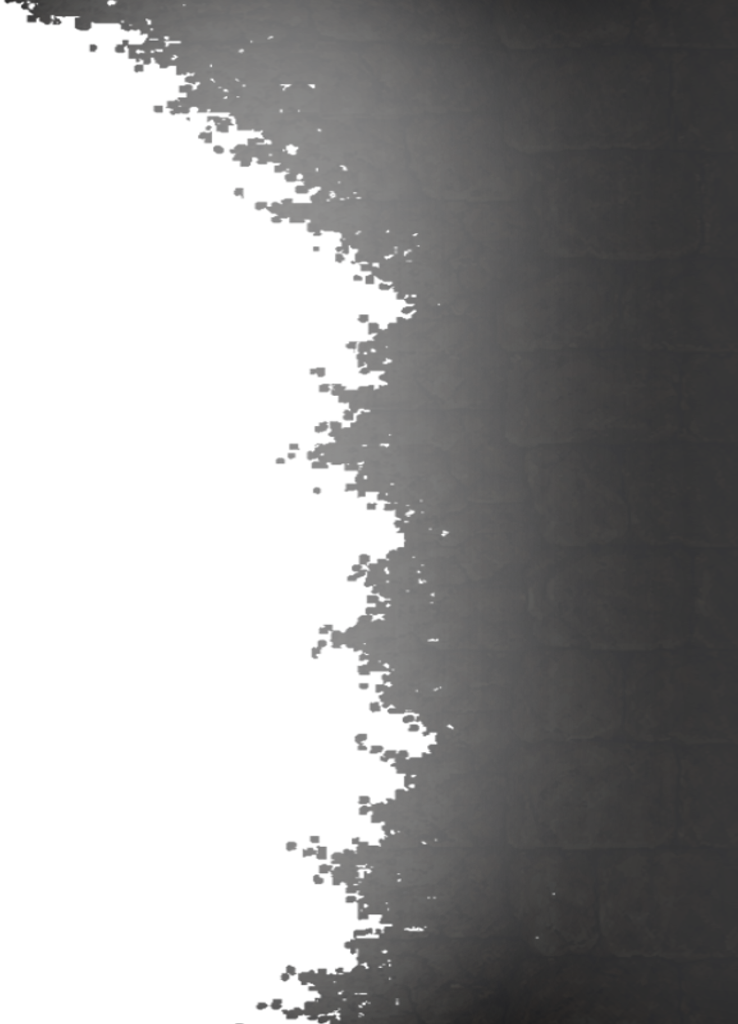
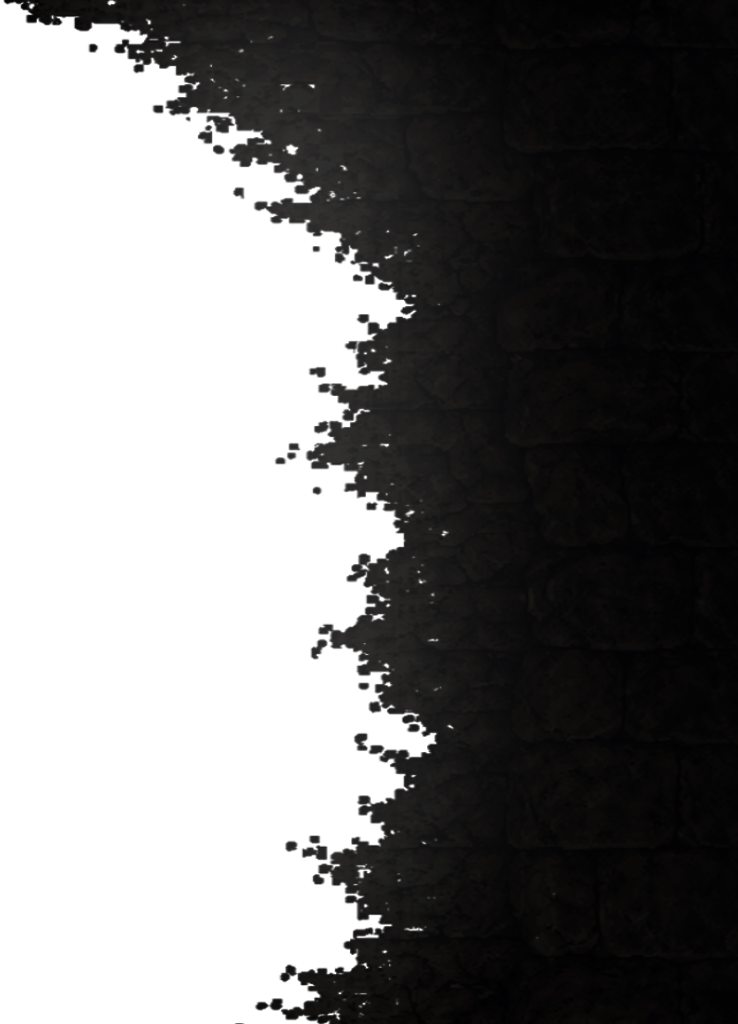
fixed image and ui

diff --git a/src/App.js b/src/App.js
@@ -425,10 +425,10 @@ export default function App() {
 
     // --- Build QTE + forge UI for center zone ---
     var mobileForgeUI = (
-        <div style={{ position: "relative", zIndex: 10, display: "flex", flexDirection: "column", alignItems: "center", justifyContent: "center", paddingTop: "5%", gap: 4, width: "100%", flex: 1, paddingLeft: handedness === "left" ? 0 : 160, paddingRight: handedness === "left" ? 160 : 0, boxSizing: "border-box" }}>
+        <div style={{ position: "relative", zIndex: 10, display: "flex", flexDirection: "column", alignItems: "center", justifyContent: "center", paddingTop: "5%", gap: 4, width: "100%", flex: 1, boxSizing: "border-box" }}>
           {/* Forge bubble */}
           {forgeBubble && (
-              <div onClick={function(e) { e.stopPropagation(); setForgeBubble(null); }} style={{ position: "absolute", top: 4, right: 4, zIndex: 60, background: "#0c0905", border: "2px solid " + forgeBubble.color, borderRadius: 10, padding: "10px 12px", width: 120, boxShadow: "0 4px 16px rgba(0,0,0,0.97)", cursor: "pointer", fontSize: 9 }}>
+              <div onClick={function(e) { e.stopPropagation(); setForgeBubble(null); }} style={{ position: "absolute", top: "20%", left: "65%", transform: "translateX(-50%)", zIndex: 60, background: "#0c0905", border: "2px solid " + forgeBubble.color, borderRadius: 10, padding: "10px 12px", width: 120, boxShadow: "0 4px 16px rgba(0,0,0,0.97)", cursor: "pointer", fontSize: 9 }}>
                 <div style={{ fontSize: 9, color: forgeBubble.color, letterSpacing: 1, fontWeight: "bold", marginBottom: 4 }}>{forgeBubble.title}</div>
                 {forgeBubble.lines.map(function(l, i) { return <div key={i} style={{ fontSize: 10, color: l.color || "#c8b89a", lineHeight: 1.6, fontWeight: l.bold ? "bold" : "normal" }}>{l.text}</div>; })}
               </div>
@@ -448,7 +448,7 @@ export default function App() {
 
           {/* MOBILE WEAPON SELECT */}
           {phase === PHASES.SELECT && (
-              <div style={{ position: "absolute", top: "20%", bottom: 0, right: handedness === "left" ? 160 : 0, left: handedness === "left" ? 0 : 160, zIndex: 30, background: "rgba(10,7,4,0.95)", display: "flex", flexDirection: "column", alignItems: "center", padding: 10, overflow: "hidden" }}>
+              <div style={{ position: "absolute", top: "20%", bottom: 0, right: 0, left: 0, zIndex: 30, background: "rgba(10,7,4,0.95)", display: "flex", flexDirection: "column", alignItems: "center", padding: 10, overflow: "hidden" }}>
                 <div style={{ fontSize: 12, letterSpacing: 2, color: "#f59e0b", fontWeight: "bold", marginBottom: 6 }}>CHOOSE WEAPON</div>
                 {/* Selected weapon info */}
                 <div style={{ display: "flex", gap: 10, marginBottom: 8, width: "100%", maxWidth: 400 }}>
@@ -487,7 +487,7 @@ export default function App() {
 
           {/* MOBILE MATERIAL SELECT */}
           {phase === PHASES.SELECT_MAT && (
-              <div style={{ position: "absolute", top: "20%", bottom: 0, right: handedness === "left" ? 160 : 0, left: handedness === "left" ? 0 : 160, zIndex: 30, background: "rgba(10,7,4,0.95)", display: "flex", flexDirection: "column", alignItems: "center", padding: 10, overflow: "hidden" }}>
+              <div style={{ position: "absolute", top: "20%", bottom: 0, right: 0, left: 0, zIndex: 30, background: "rgba(10,7,4,0.95)", display: "flex", flexDirection: "column", alignItems: "center", padding: 10, overflow: "hidden" }}>
                 <div style={{ fontSize: 12, letterSpacing: 2, color: "#f59e0b", fontWeight: "bold", marginBottom: 4 }}>CHOOSE MATERIAL</div>
                 <div style={{ fontSize: 9, color: "#8a7a64", marginBottom: 6 }}>{weapon.name} needs {weapon.materialCost} units</div>
                 {/* Selected material info */}

diff --git a/src/modules/mobileLayout.js b/src/modules/mobileLayout.js
@@ -1007,7 +1007,22 @@ function MobileLayout(props) {
                     <span style={{ fontFamily: "'Cinzel', serif", color: T.colors.textLabel, fontSize: 18, letterSpacing: 2, fontWeight: "bold", textShadow: "0 1px 4px rgba(0,0,0,0.9)", lineHeight: 1 }}>DAY</span>
                     <span style={{ fontFamily: "'Cinzel', serif", fontSize: 28, color: T.colors.textLight, fontWeight: "bold", textShadow: "0 1px 4px rgba(0,0,0,0.9)", lineHeight: 1 }}>{props.day || 1}</span>
                 </div>
-                {/* Action strip — absolute overlay, does not push background */}
+                {/* Sidebar background image — free-floating, not clipped by action strip */}
+                <img src={IC.sidebar} alt="" draggable={false} style={{
+                    position: "absolute",
+                    top: 0,
+                    bottom: 0,
+                    right: isLeftHanded ? "auto" : 0,
+                    left: isLeftHanded ? 0 : "auto",
+                    height: "100%",
+                    width: 120,
+                    objectFit: "cover",
+                    opacity: 0.60,
+                    transform: isLeftHanded ? "scaleX(-1)" : "none",
+                    pointerEvents: "none",
+                    zIndex: T.z.ui - 1,
+                }} />
+                {/* Action strip — absolute overlay, passes clicks during QTE */}
                 <div style={{
                     position: "absolute",
                     top: 0,
@@ -1019,21 +1034,8 @@ function MobileLayout(props) {
                     flexDirection: "column",
                     zIndex: T.z.ui,
                     background: "transparent",
-                    overflow: "visible",
+                    pointerEvents: isQTEActive ? "none" : "auto",
                 }}>
-                    <img src={IC.sidebar} alt="" draggable={false} style={{
-                        position: "absolute",
-                        top: 0,
-                        right: isLeftHanded ? "auto" : 0,
-                        left: isLeftHanded ? 0 : "auto",
-                        height: "100%",
-                        width: "110%",
-                        objectFit: "cover",
-                        opacity: 1.0,
-                        transform: isLeftHanded ? "scaleX(-1)" : "none",
-                        pointerEvents: "none",
-                        zIndex: 1,
-                    }} />
                     {actionStrip}
                 </div>
                 {drawer}

diff --git a/src/config/buildInfo.js b/src/config/buildInfo.js
@@ -1,5 +1,5 @@
 var BUILD_INFO = {
-    version: "0.48.00",
+    version: "0.49.00",
     env: "dev",
 };
 
